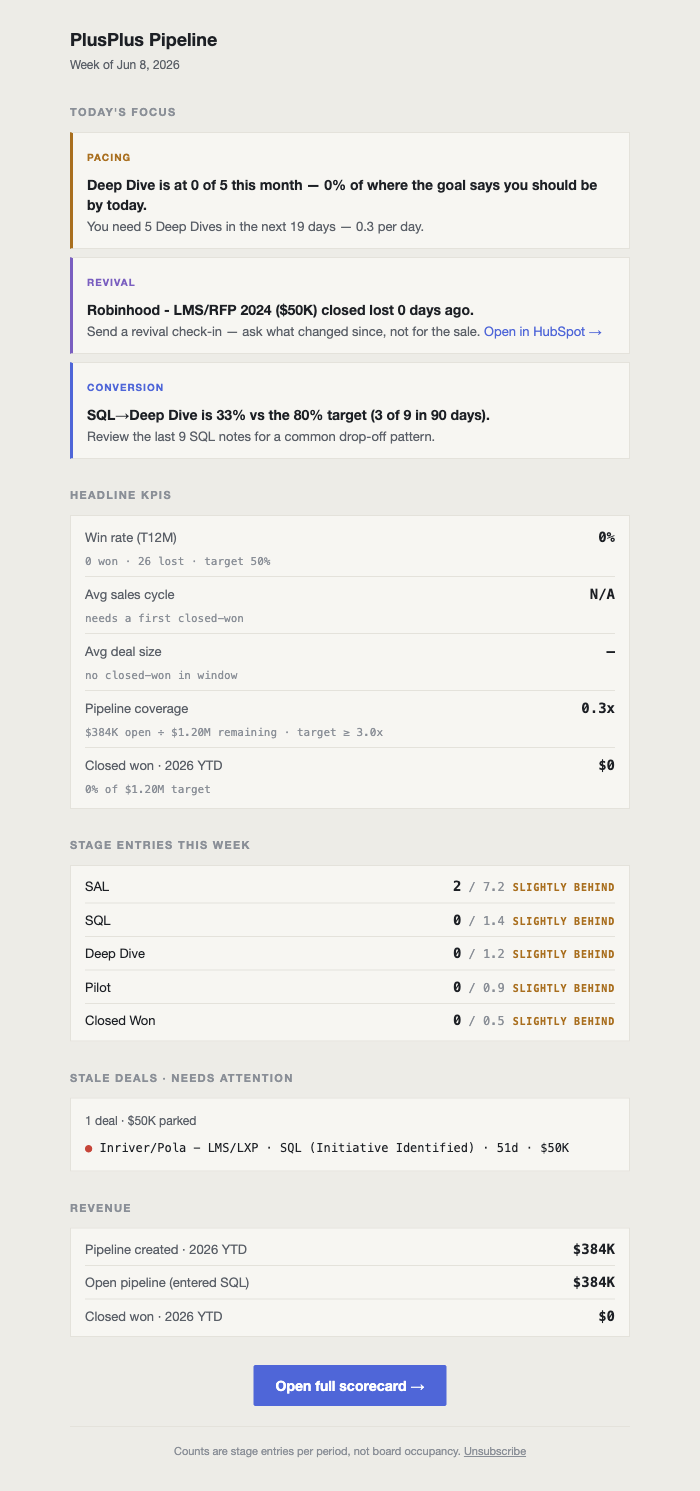
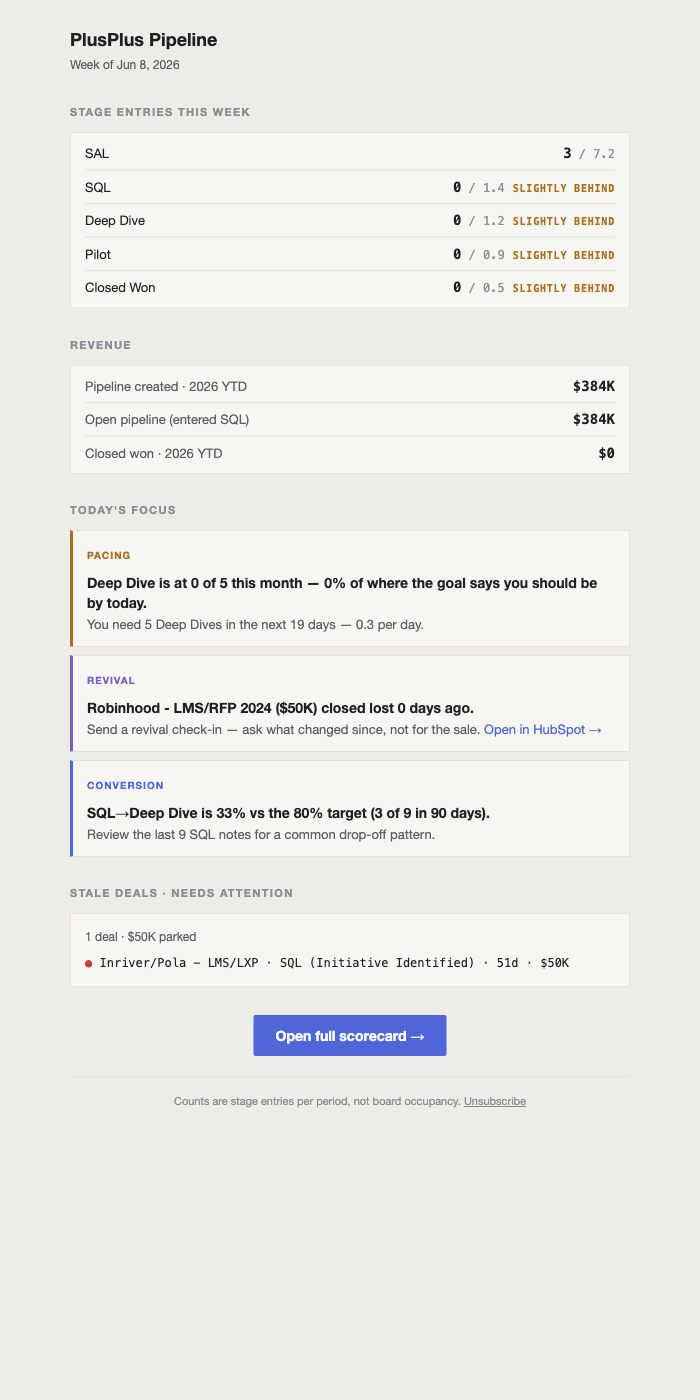
fix: digest section order - funnel, revenue, focus, stale
Stage entries this week lead the email, then revenue, Today's Focus,
and stale deals. Headline KPIs stay in the template (toggleable from
settings) but are switched off in the live config - with no wins on
the books yet they read as noise, not signal.

diff --git a/src/emails/Digest.tsx b/src/emails/Digest.tsx
@@ -71,52 +71,6 @@ export default function DigestEmail({ data, appUrl, unsubscribeUrl, sections }: 
             {data.variant === "aggregate" ? " · aggregate view" : ""}
           </Text>
 
-          {sections.focus && data.focus.length > 0 && (
-            <>
-              <SectionTitle>{"Today's Focus"}</SectionTitle>
-              {data.focus.map((f, i) => (
-                <Section key={i} style={{ backgroundColor: PANEL, border: `1px solid ${RULE}`, borderLeft: `3px solid ${CHIP_COLOR[f.category] ?? GREEN}`, padding: "12px 14px", marginBottom: 8 }}>
-                  <Text style={{ margin: 0, fontSize: 10, fontWeight: 700, letterSpacing: "0.1em", color: CHIP_COLOR[f.category] ?? GREEN }}>
-                    {f.category}
-                  </Text>
-                  <Text style={{ margin: "6px 0 2px", fontSize: 14, fontWeight: 600, lineHeight: "20px" }}>{f.diagnosis}</Text>
-                  <Text style={{ margin: 0, fontSize: 13, color: SOFT, lineHeight: "19px" }}>
-                    {f.action}
-                    {f.href ? (
-                      <>
-                        {" "}
-                        <Link href={f.href} style={{ color: ACCENT }}>
-                          Open in HubSpot →
-                        </Link>
-                      </>
-                    ) : null}
-                  </Text>
-                </Section>
-              ))}
-            </>
-          )}
-
-          {sections.headline && (
-            <>
-              <SectionTitle>Headline KPIs</SectionTitle>
-              <Section style={{ backgroundColor: PANEL, border: `1px solid ${RULE}`, padding: "4px 14px" }}>
-                {data.kpis.map((kpi, i) => (
-                  <table key={i} width="100%" cellPadding={0} cellSpacing={0} style={{ borderBottom: i < data.kpis.length - 1 ? `1px solid ${RULE}` : "none" }}>
-                    <tbody>
-                      <tr>
-                        <td style={{ padding: "9px 0", fontSize: 13, color: SOFT }}>{kpi.label}</td>
-                        <td align="right" style={{ padding: "9px 0", fontFamily: mono, fontSize: 14, fontWeight: 700 }}>{kpi.value}</td>
-                      </tr>
-                      <tr>
-                        <td colSpan={2} style={{ paddingBottom: 9, fontFamily: mono, fontSize: 11, color: FAINT }}>{kpi.detail}</td>
-                      </tr>
-                    </tbody>
-                  </table>
-                ))}
-              </Section>
-            </>
-          )}
-
           {sections.funnel && (
             <>
               <SectionTitle>Stage entries this week</SectionTitle>
@@ -143,6 +97,49 @@ export default function DigestEmail({ data, appUrl, unsubscribeUrl, sections }: 
             </>
           )}
 
+          {sections.revenue && (
+            <>
+              <SectionTitle>Revenue</SectionTitle>
+              <Section style={{ backgroundColor: PANEL, border: `1px solid ${RULE}`, padding: "4px 14px" }}>
+                {data.revenue.map((r, i) => (
+                  <table key={i} width="100%" cellPadding={0} cellSpacing={0} style={{ borderBottom: i < data.revenue.length - 1 ? `1px solid ${RULE}` : "none" }}>
+                    <tbody>
+                      <tr>
+                        <td style={{ padding: "8px 0", fontSize: 13, color: SOFT }}>{r.label}</td>
+                        <td align="right" style={{ padding: "8px 0", fontFamily: mono, fontSize: 14, fontWeight: 700 }}>{r.value}</td>
+                      </tr>
+                    </tbody>
+                  </table>
+                ))}
+              </Section>
+            </>
+          )}
+
+          {sections.focus && data.focus.length > 0 && (
+            <>
+              <SectionTitle>{"Today's Focus"}</SectionTitle>
+              {data.focus.map((f, i) => (
+                <Section key={i} style={{ backgroundColor: PANEL, border: `1px solid ${RULE}`, borderLeft: `3px solid ${CHIP_COLOR[f.category] ?? GREEN}`, padding: "12px 14px", marginBottom: 8 }}>
+                  <Text style={{ margin: 0, fontSize: 10, fontWeight: 700, letterSpacing: "0.1em", color: CHIP_COLOR[f.category] ?? GREEN }}>
+                    {f.category}
+                  </Text>
+                  <Text style={{ margin: "6px 0 2px", fontSize: 14, fontWeight: 600, lineHeight: "20px" }}>{f.diagnosis}</Text>
+                  <Text style={{ margin: 0, fontSize: 13, color: SOFT, lineHeight: "19px" }}>
+                    {f.action}
+                    {f.href ? (
+                      <>
+                        {" "}
+                        <Link href={f.href} style={{ color: ACCENT }}>
+                          Open in HubSpot →
+                        </Link>
+                      </>
+                    ) : null}
+                  </Text>
+                </Section>
+              ))}
+            </>
+          )}
+
           {sections.stale && (
             <>
               <SectionTitle>Stale deals · needs attention</SectionTitle>
@@ -165,16 +162,19 @@ export default function DigestEmail({ data, appUrl, unsubscribeUrl, sections }: 
             </>
           )}
 
-          {sections.revenue && (
+          {sections.headline && (
             <>
-              <SectionTitle>Revenue</SectionTitle>
+              <SectionTitle>Headline KPIs</SectionTitle>
               <Section style={{ backgroundColor: PANEL, border: `1px solid ${RULE}`, padding: "4px 14px" }}>
-                {data.revenue.map((r, i) => (
-                  <table key={i} width="100%" cellPadding={0} cellSpacing={0} style={{ borderBottom: i < data.revenue.length - 1 ? `1px solid ${RULE}` : "none" }}>
+                {data.kpis.map((kpi, i) => (
+                  <table key={i} width="100%" cellPadding={0} cellSpacing={0} style={{ borderBottom: i < data.kpis.length - 1 ? `1px solid ${RULE}` : "none" }}>
                     <tbody>
                       <tr>
-                        <td style={{ padding: "8px 0", fontSize: 13, color: SOFT }}>{r.label}</td>
-                        <td align="right" style={{ padding: "8px 0", fontFamily: mono, fontSize: 14, fontWeight: 700 }}>{r.value}</td>
+                        <td style={{ padding: "9px 0", fontSize: 13, color: SOFT }}>{kpi.label}</td>
+                        <td align="right" style={{ padding: "9px 0", fontFamily: mono, fontSize: 14, fontWeight: 700 }}>{kpi.value}</td>
+                      </tr>
+                      <tr>
+                        <td colSpan={2} style={{ paddingBottom: 9, fontFamily: mono, fontSize: 11, color: FAINT }}>{kpi.detail}</td>
                       </tr>
                     </tbody>
                   </table>